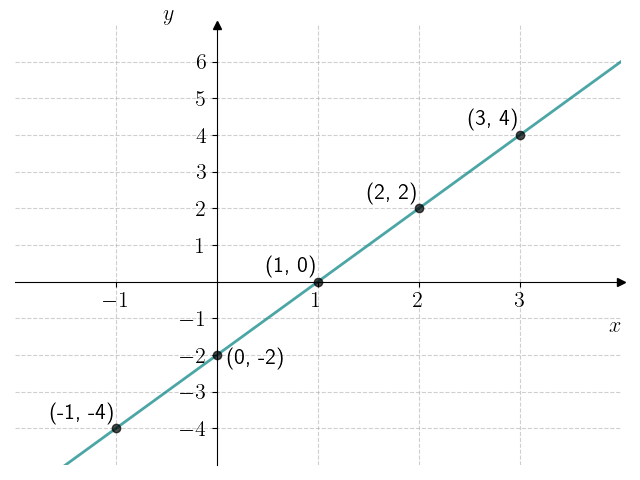
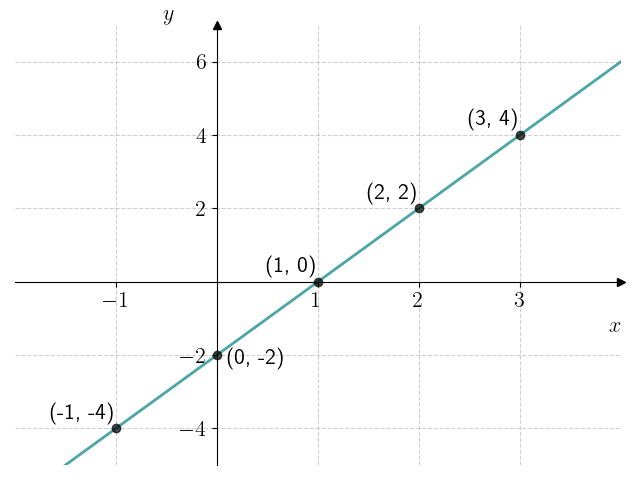
updated website

diff --git a/book/rette_linjer/koder/fra_verditabell_til_graf.py b/book/rette_linjer/koder/fra_verditabell_til_graf.py
@@ -44,7 +44,7 @@ xticks = list(np.arange(-1, 4, 1))
 xticks.remove(0)
 plt.xticks(xticks, fontsize=16)
 
-yticks = list(np.arange(-4, 7, 1))
+yticks = list(np.arange(-4, 7, 2))
 yticks.remove(0)
 plt.yticks(yticks, fontsize=16)
 

diff --git a/book/rette_linjer/grafisk_representasjon.md b/book/rette_linjer/grafisk_representasjon.md
@@ -1,12 +1,12 @@
 # Grafisk representasjon 
 
 Vi tenker oss at vi har en linje $y = 2x - 2$. Hvordan kan vi representere denne linja grafisk?
-Sagt på en annen måte, hvordan ser grafen til linja ut?
+Sagt på en annen måte, hvordan ser grafen til linja ut? For å svare på dette, går via en verditabell til et koordinatsystem.
 
 ## Fra verditabell til koordinatsystem
 
 En måte å finne ut hvordan grafen til linja ser ut er å sette opp en verditabell for ulike verdier av $x$. 
-Vi bruker formelen $y = 2x - 2$ til å regne ut hvilke $y$-verdier som svarer til en gitt $x$-verdi.
+Vi bruker formelen $y = 2x - 2$ til å regne ut hvilken $y$-verdier som svarer til en $x$-verdi.
 
 Under kan vi se en verditabell for linja $y = 2x - 2$:
 
